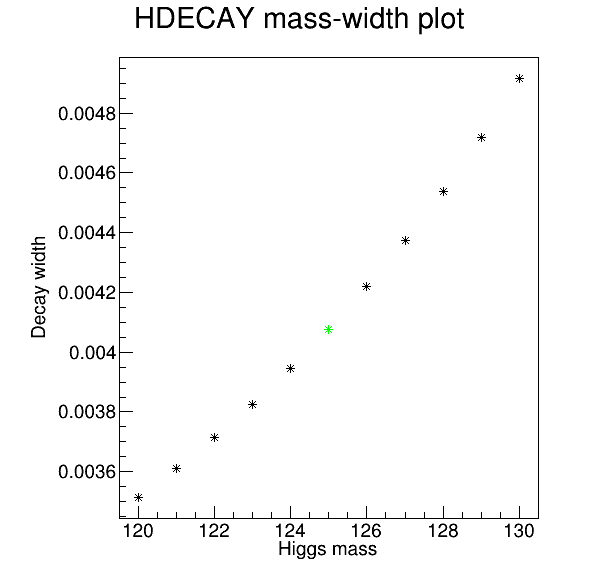
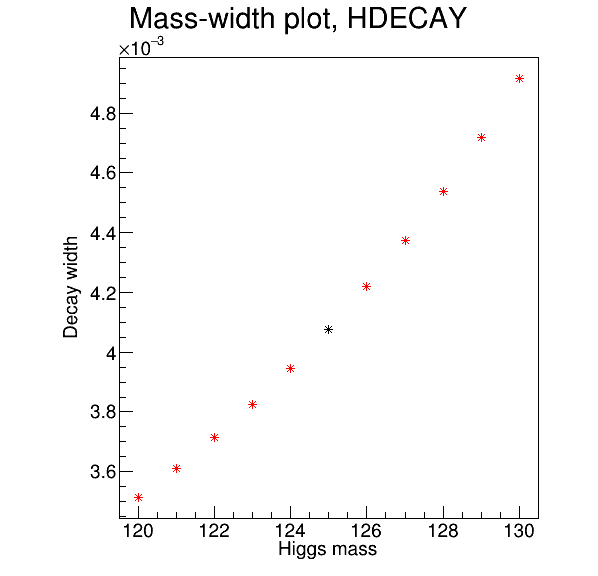
Updating exercise

diff --git a/Ex7/Stadnitski/GetWidth.py b/Ex7/Stadnitski/GetWidth.py
@@ -2,14 +2,6 @@
 from array import array
 import numpy as np
 from ROOT import *
-
-def main():
-
-    HDECAY = write('HDECAY')
-    #draw(HDECAY)
-
-    FEYNHIGGS = write('FEYNHIGGS')
-    draw('both')
     
 def write(name):
 
@@ -39,8 +31,6 @@ def write(name):
     widthTree.Write()
     sim.Close()
     
-    return name
-
 def read(name, color):
 
     sim = TFile.Open('sim' + name + '.root', 'READ')
@@ -69,42 +59,76 @@ def read(name, color):
     graph1 = TGraph(1, m125, w125)
     graph1.SetMarkerColor(1)
 
-    return graph0, graph1
+    return graph0, graph1, w
 
 def draw(mode):
 
-    name = ''
-
-    canvas = TCanvas('Canvas', '', 600, 600)
-    canvas.SetMargin(0.2, 0.1, 0.1, 0.1)
-    canvas.cd()
+    if mode is 'BOTH':
+        canvas = TCanvas('Canvas', '', 600, 1200)
+        canvas.SetMargin(0.2, 0.1, 0.1, 0.1)
+        canvas.Divide(1, 2)
+    else:
+        canvas = TCanvas('Canvas', '', 600, 600)
+        canvas.SetMargin(0.2, 0.1, 0.1, 0.1)
     
+    canvas.cd(1)
     graph = TMultiGraph()
 
-    graphHD0, graphHD1 = read('HDECAY', 2)
-    graphHD0.SetName('hd')
-    graph.Add(graphHD0)
-    graph.Add(graphHD1)
+    if mode is not 'FEYNHIGGS':
+        graphHD0, graphHD1, denominator = read('HDECAY', 2)
+        graphHD0.SetName('hd')
+        graph.Add(graphHD0)
+        graph.Add(graphHD1)
 
-    if mode is 'both':
-        graphFH0, graphFH1 = read('FEYNHIGGS', 4)
+    if mode is not 'HDECAY':
+        graphFH0, graphFH1, numerator = read('FEYNHIGGS', 4)
         graphFH0.SetName('fh')
         graph.Add(graphFH0)
         graph.Add(graphFH1)
 
     graph.Draw('A*')
 
-    graph.SetTitle(name + ' Mass-width plot')
+    graph.SetTitle('Mass-width plot, ' + mode)
     graph.GetXaxis().SetTitle('Higgs mass')
     graph.GetXaxis().CenterTitle(True)
     graph.GetYaxis().SetTitle('Decay width')
     graph.GetYaxis().CenterTitle(True)
+    graph.GetYaxis().SetMaxDigits(3)
 
-    legend = TLegend(0.7, 0.2, 0.9, 0.3)
+    if mode is not 'BOTH':
+        canvas.Print('graph' + mode + '.png')
+        return
+
+    legend = TLegend(0.7, 0.1, 0.9, 0.2)
     legend.AddEntry('fh', 'FeynHiggs')
     legend.AddEntry('hd', 'HDECAY')
     legend.Draw()
 
-    canvas.Print('graph' + name + '.png')
+    canvas.cd(2)
+
+    base, ratios = array('f'), array('f')
+
+    for w in range(len(numerator)):
+        base.append(120 + w)
+        ratios.append(numerator[w] / denominator[w])
+
+    ratio = TGraph(len(numerator), base, ratios)
+    ratio.SetTitle('FeynHiggs / HDECAY')
+    ratio.GetXaxis().SetTitle('Higgs mass')
+    ratio.GetXaxis().CenterTitle(True)
+    ratio.GetYaxis().SetTitle('Ratio')
+    ratio.GetYaxis().CenterTitle(True)
+    ratio.Draw('A*')
+
+    canvas.Print('graph' + mode + '.png')
+
+def main():
+
+    write('HDECAY')
+    write('FEYNHIGGS')
+    
+    draw('HDECAY')
+    draw('FEYNHIGGS')
+    draw('BOTH')
 
 if __name__ == '__main__': main()
